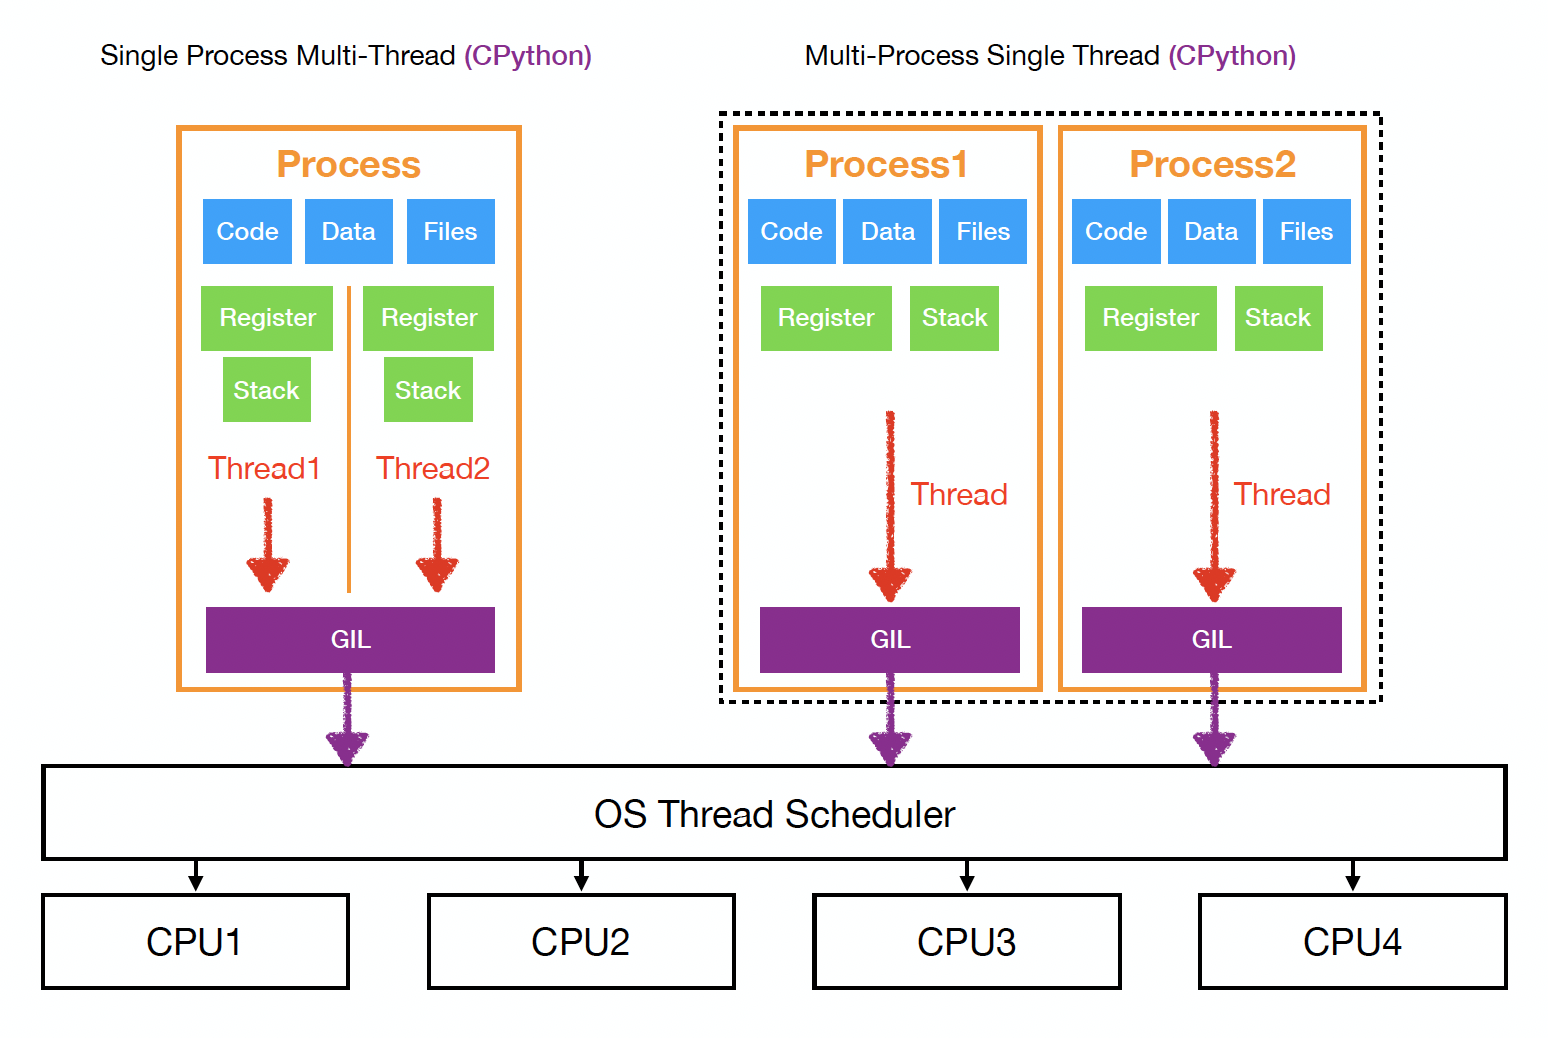
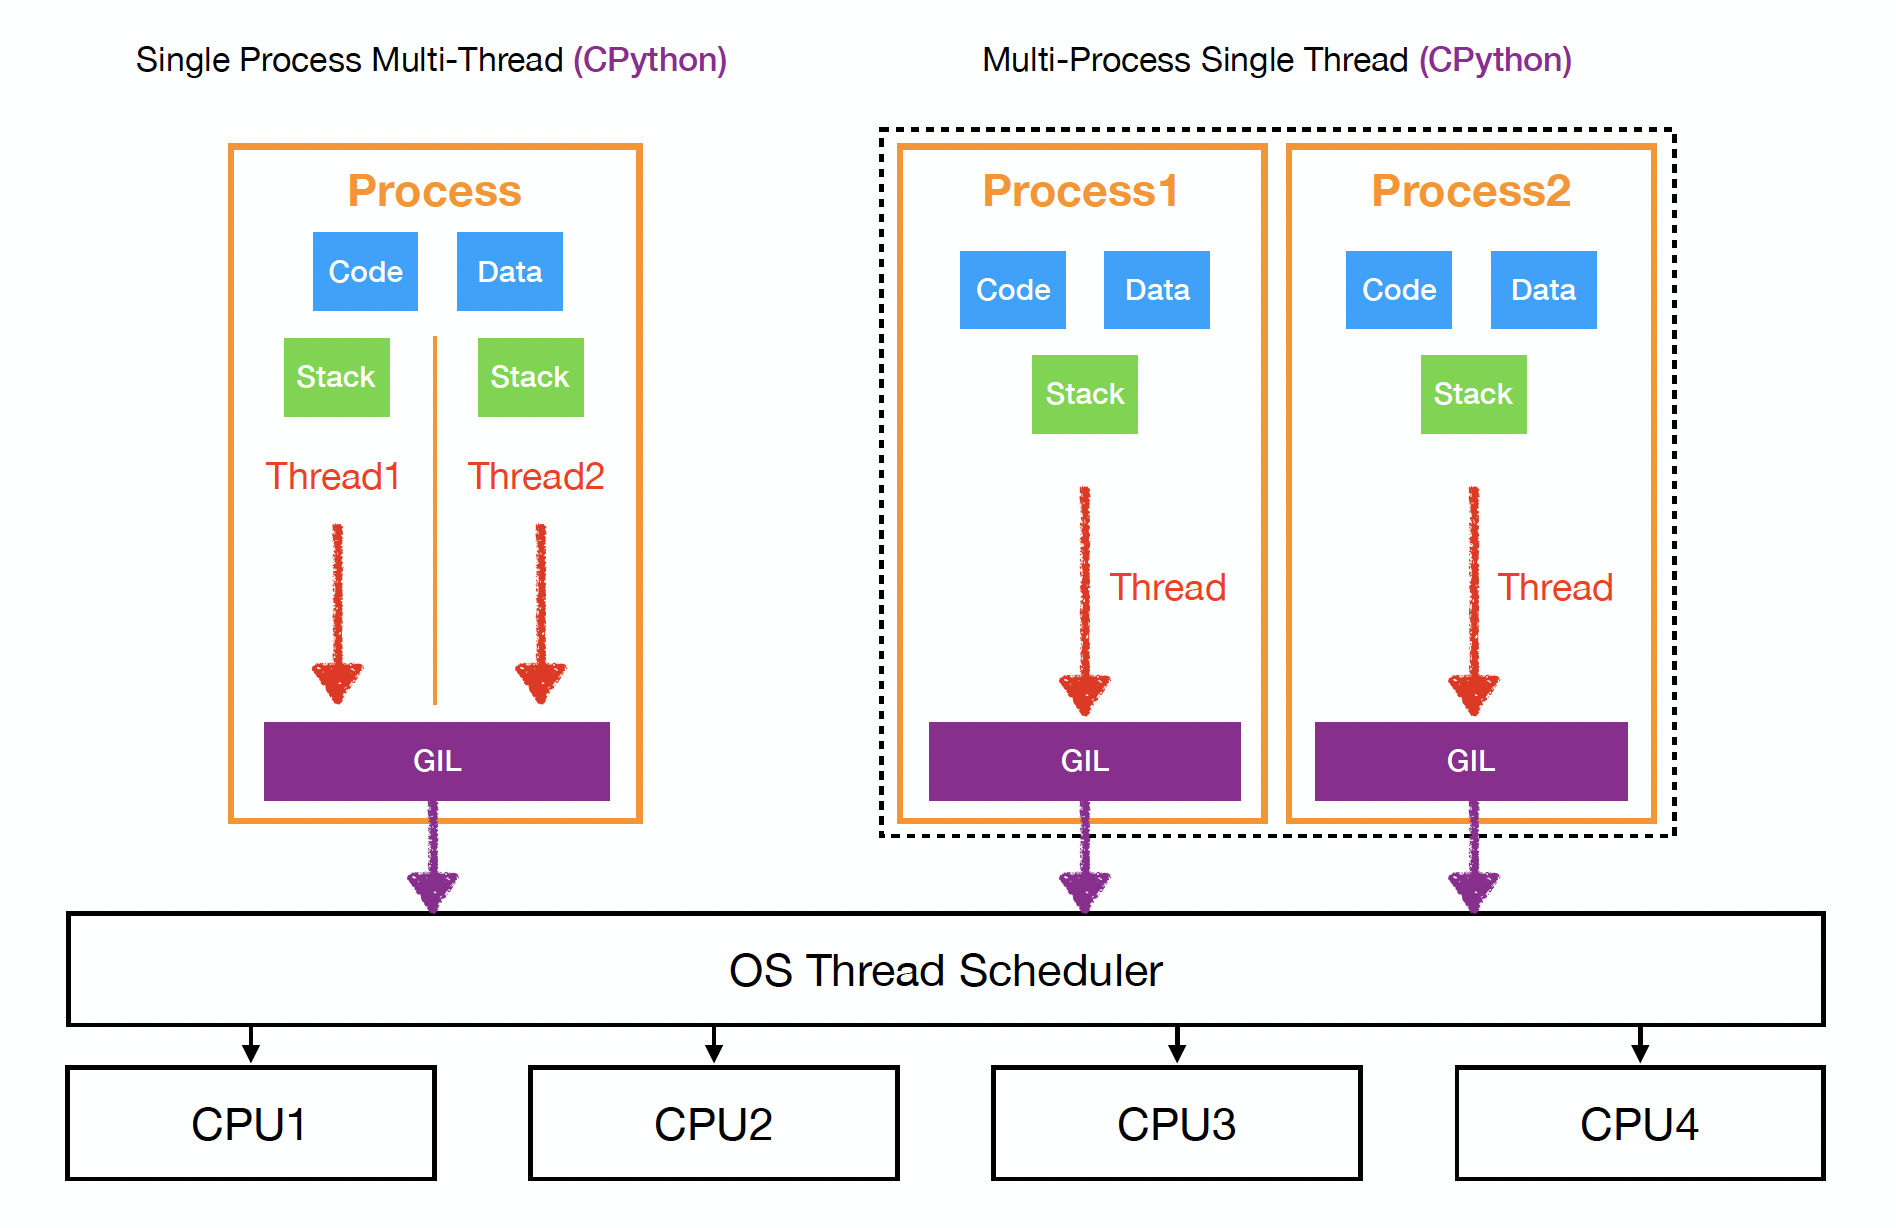
Generate Pelican site

Changed region(s): [[0.0, 0.0925, 0.9922, 0.9865], [0.4961, 0.0308, 0.8372, 0.0617], [0.062, 0.0308, 0.4031, 0.0617]]

diff --git a/multithread-multiprocess-gil.html b/multithread-multiprocess-gil.html
@@ -246,12 +246,12 @@
 <p><img alt="" src="http://www.ycc.idv.tw/media/CS/thread_and_process.png"></p>
 <ul>
 <li>Single Process Single Thread<ul>
-<li>Single Process中記憶體存放Code、Data、Files</li>
-<li>Single Thread 進行中需使用 Register和Stack來紀錄</li>
+<li>Single Process中記憶體存放Code、Data</li>
+<li>Single Thread 進行中需使用 Stack 來追蹤紀錄</li>
 </ul>
 </li>
 <li>Single Process Multi-Thread<ul>
-<li>單一Process中的多個Thread共享資源（記憶體存放的Code、Data、Files）</li>
+<li>單一Process中的多個Thread共享資源（記憶體存放的Code、Data）</li>
 <li>也因為共享資源的緣故，要小心撰寫程式碼避免dead lock和race condition等問題</li>
 </ul>
 </li>
@@ -262,7 +262,7 @@
 </ul>
 </li>
 <li>譬喻：<ul>
-<li>Process 像是一間工廠，工廠裡面有許多器具（Code、Data、Files）</li>
+<li>Process 像是一間工廠，工廠裡面有許多器具（Code、Data）</li>
 <li>Thread 像是裡頭的工人</li>
 <li>Multi-Thread就像是一間工廠有多個工人，這樣的話那就需要避免他們互搶設備或互相等待</li>
 <li>Multi-Process就像是蓋多間工廠，蓋更多工廠意味著更多的資本支出，而且工廠和工廠間要資源交換比較不容易</li>
